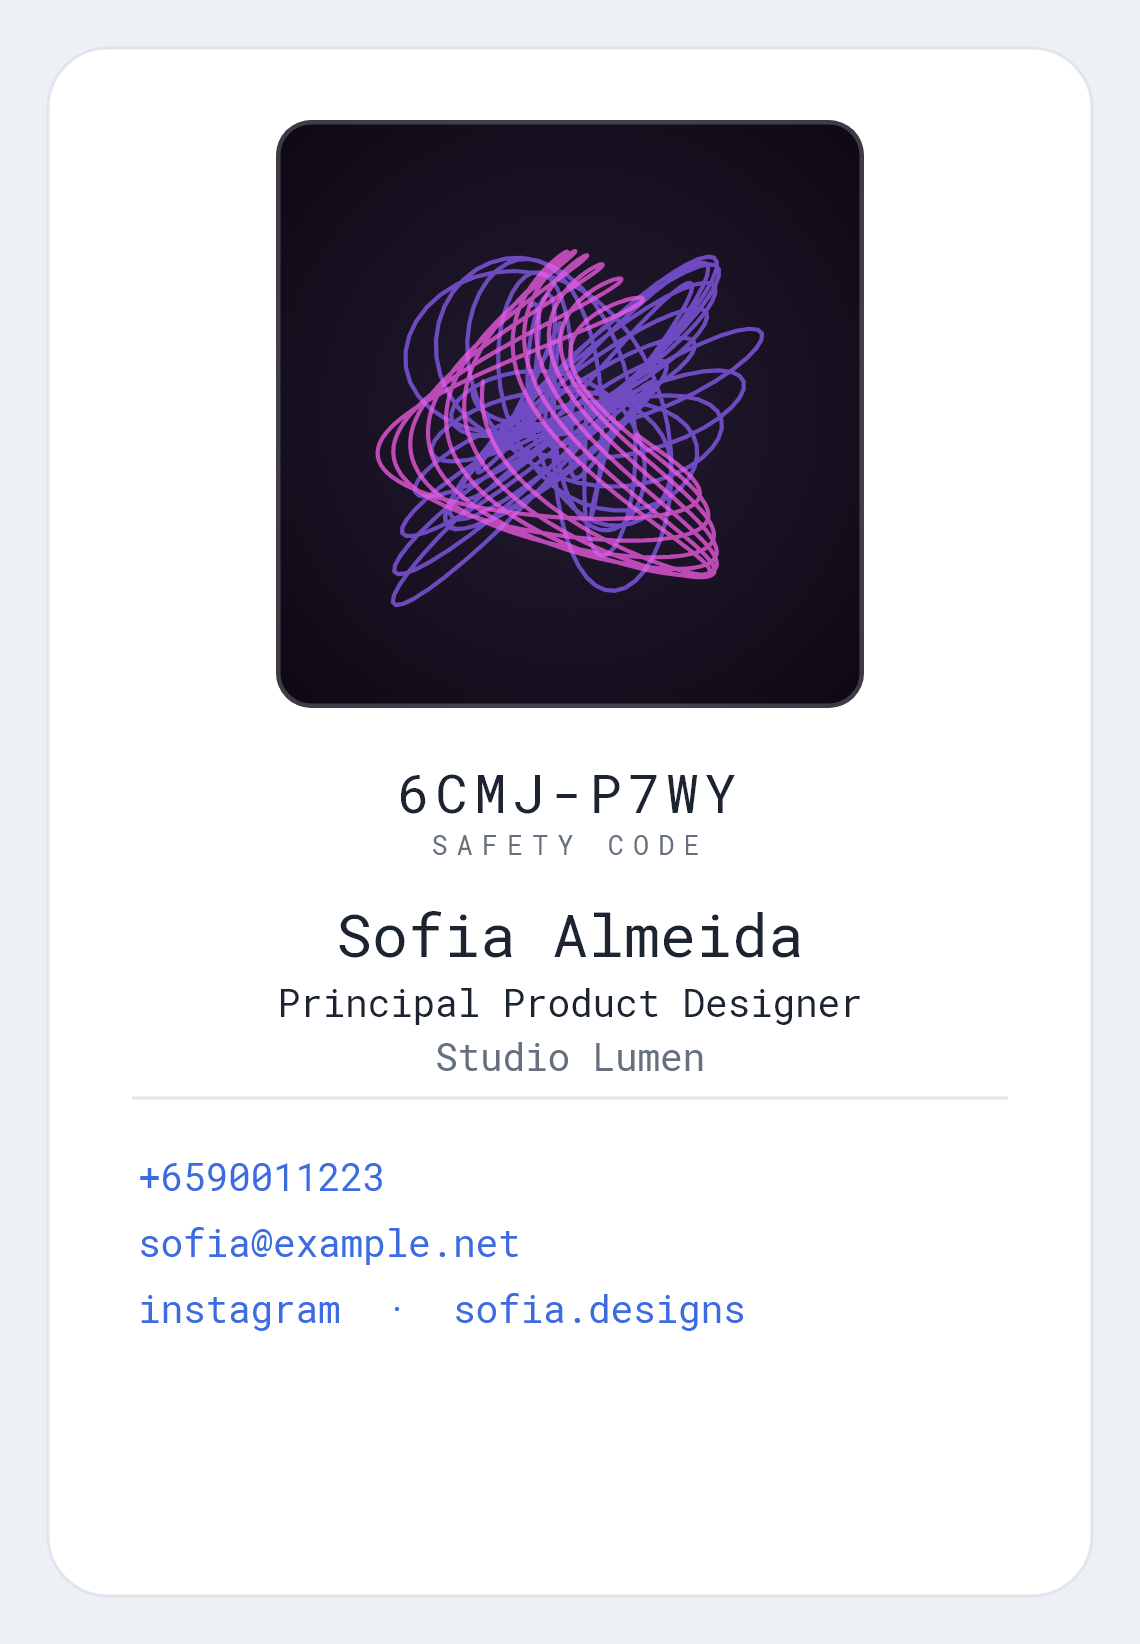
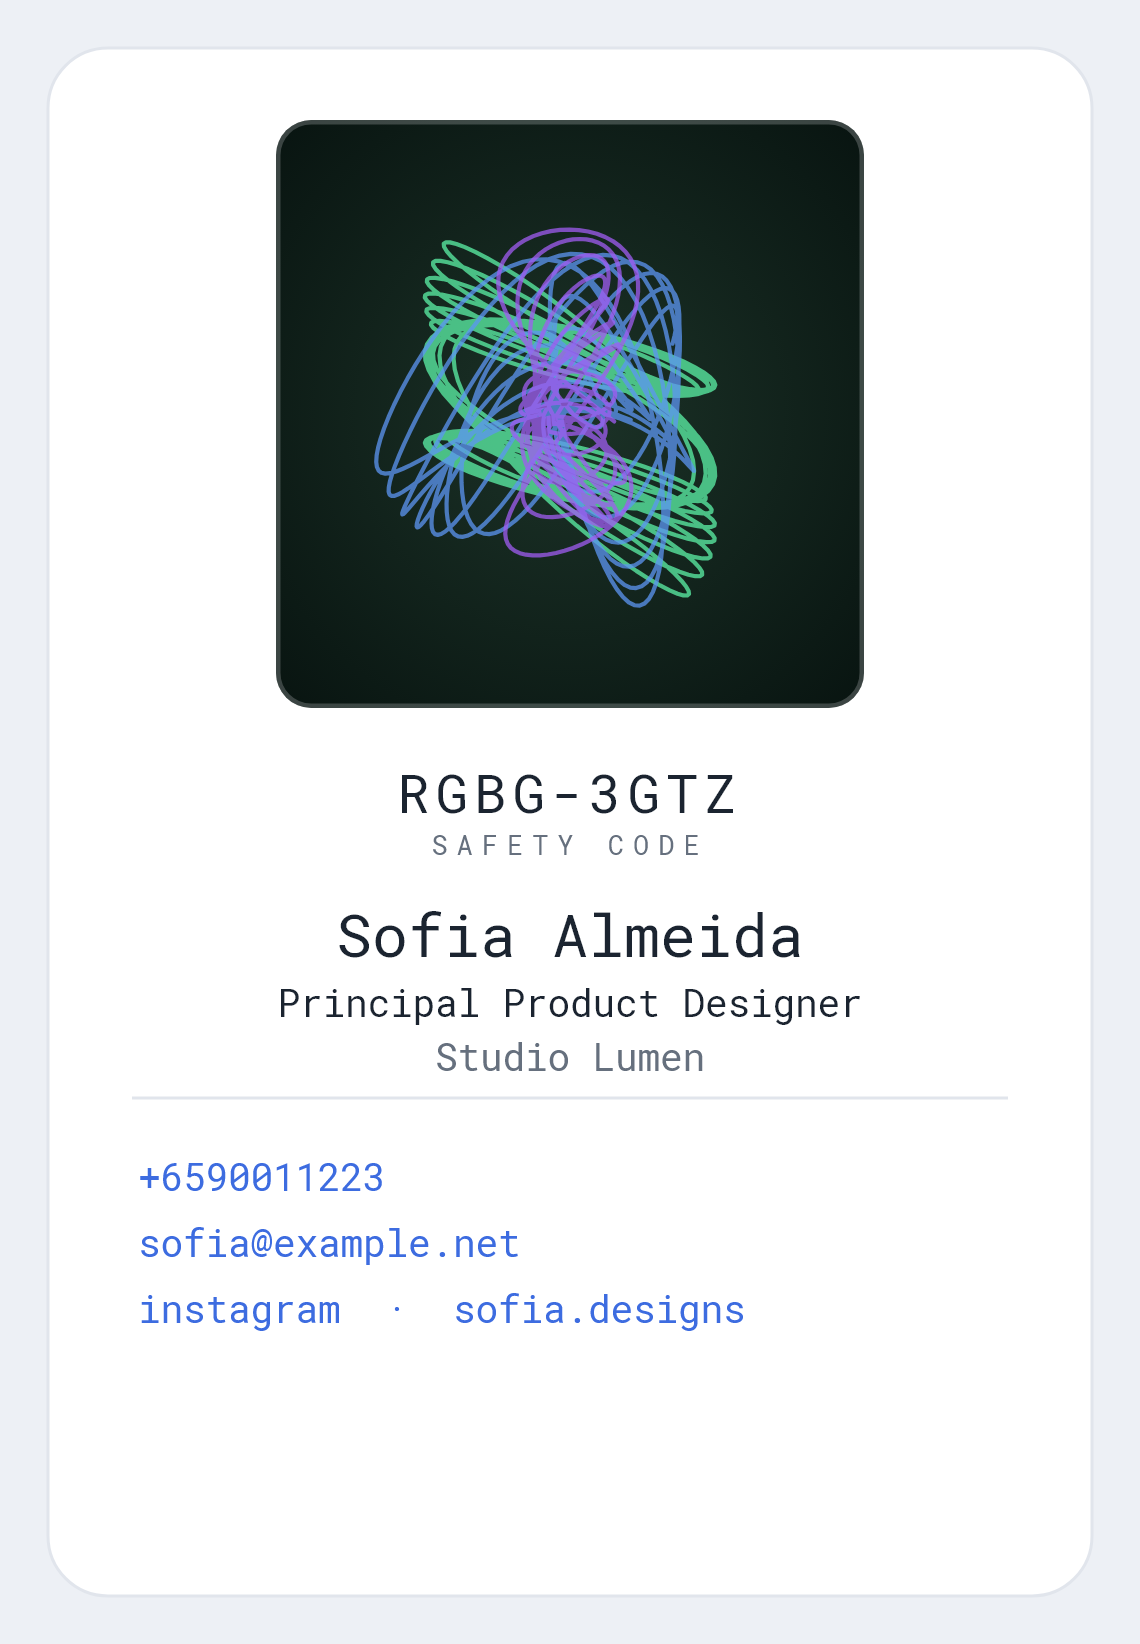
README: add feature screenshots (editor, viewer, share)
Add a Screens section showing three real app screens captured from the actual
widgets, and consolidate the demo cards into tool/demo_cards.dart so a given
person renders with the same fingerprint everywhere (tags feed the hash, so the
generators must agree). Regenerate all screenshots.

tool/gen_feature_shots.dart drives EditorScreen / CardViewer / ShareScreen at a
phone size with full Roboto + MaterialIcons + RobotoMono fonts loaded and writes
each via matchesGoldenFile (run: flutter test --update-goldens tool/gen_feature_shots.dart).

Changed region(s): [[0.307, 0.1241, 0.6754, 0.3723], [0.3377, 0.4653, 0.4912, 0.4964], [0.5219, 0.4653, 0.6447, 0.4964]]

diff --git a/tool/gen_feature_shots.dart b/tool/gen_feature_shots.dart
@@ -1,0 +1,95 @@
+// Captures real app screens to PNGs under screenshots/ for the README.
+// Run: flutter test --update-goldens tool/gen_feature_shots.dart
+//
+// Not a real test — it drives actual app widgets (editor, viewer, share) at a
+// phone size and writes each screen via matchesGoldenFile (which handles the
+// headless image capture reliably). Full Roboto + MaterialIcons + RobotoMono
+// fonts are loaded so nothing renders as tofu. The goldens live in
+// screenshots/, so re-running with --update-goldens refreshes the README shots.
+import 'dart:io';
+
+import 'package:flutter/material.dart';
+import 'package:flutter/services.dart';
+import 'package:flutter_test/flutter_test.dart';
+import 'package:namecard_vision/features/editor/editor_screen.dart';
+import 'package:namecard_vision/features/share/share_screen.dart';
+import 'package:namecard_vision/features/viewer/card_viewer.dart';
+import 'demo_cards.dart';
+
+const _flutterFonts = 'C:/src/flutter/bin/cache/artifacts/material_fonts';
+
+Future<void> _loadFonts() async {
+  Future<void> load(String family, String path) async {
+    final loader = FontLoader(family)
+      ..addFont(File(path).readAsBytes().then((b) => b.buffer.asByteData()));
+    await loader.load();
+  }
+
+  await load('Roboto', '$_flutterFonts/roboto-regular.ttf');
+  await load('MaterialIcons', '$_flutterFonts/materialicons-regular.otf');
+  final mono = await rootBundle.load('assets/fonts/RobotoMono-Regular.ttf');
+  for (final fam in ['RobotoMono', 'monospace']) {
+    await (FontLoader(fam)..addFont(Future.value(mono))).load();
+  }
+}
+
+Widget _app(Widget home) => MaterialApp(
+      debugShowCheckedModeBanner: false,
+      theme: ThemeData(
+        useMaterial3: true,
+        fontFamily: 'Roboto',
+        colorSchemeSeed: const Color(0xFF3D6CE0),
+        brightness: Brightness.light,
+      ),
+      home: home,
+    );
+
+/// Phone-sized surface at 3x so the PNG is crisp.
+void _phone(WidgetTester tester) {
+  const w = 390.0, h = 844.0, dpr = 3.0;
+  tester.view.devicePixelRatio = dpr;
+  tester.view.physicalSize = const Size(w * dpr, h * dpr);
+  addTearDown(tester.view.resetPhysicalSize);
+  addTearDown(tester.view.resetDevicePixelRatio);
+}
+
+void main() {
+  setUp(_loadFonts);
+
+  testWidgets('editor', (tester) async {
+    _phone(tester);
+    await tester.pumpWidget(_app(EditorScreen(initial: demoMaya, onSave: (_) async {})));
+    await tester.pump(const Duration(milliseconds: 400));
+    await expectLater(find.byType(EditorScreen),
+        matchesGoldenFile('../screenshots/feature-editor.png'));
+  });
+
+  testWidgets('viewer', (tester) async {
+    _phone(tester);
+    await tester.pumpWidget(_app(CardViewer(
+      card: demoArjun,
+      onCardChanged: (_) {},
+      onEdit: () {},
+      onDelete: () {},
+      onTogglePin: (_) {},
+      onToggleMine: (_) {},
+    )));
+    await tester.pump(const Duration(milliseconds: 400));
+    // Expand the skin switcher so the four skins are visible.
+    final tile = find.textContaining('Art skin:');
+    if (tile.evaluate().isNotEmpty) {
+      await tester.tap(tile);
+      await tester.pump(const Duration(milliseconds: 300));
+    }
+    await expectLater(find.byType(CardViewer),
+        matchesGoldenFile('../screenshots/feature-viewer.png'));
+  });
+
+  testWidgets('share', (tester) async {
+    _phone(tester);
+    await tester.pumpWidget(_app(const ShareScreen(card: demoWei)));
+    await tester.pump(const Duration(milliseconds: 400));
+    await expectLater(find.byType(ShareScreen),
+        matchesGoldenFile('../screenshots/feature-share.png'));
+  });
+}

diff --git a/tool/gen_shots.dart b/tool/gen_shots.dart
@@ -6,7 +6,6 @@
 // write it to disk. Text uses the bundled RobotoMono so glyphs render in the
 // headless environment (the default test font is blank).
 import 'dart:io';
-import 'dart:typed_data';
 import 'dart:ui' as ui;
 
 import 'package:flutter/material.dart';
@@ -16,62 +15,15 @@ import 'package:namecard_vision/fingerprint/registry.dart';
 import 'package:namecard_vision/model/card.dart';
 import 'package:namecard_vision/model/fingerprint_hash.dart';
 
+import 'demo_cards.dart';
+
 const String _mono = 'RobotoMono';
 
 final List<(String, NameCard)> _cards = [
-  (
-    'maya-biostat',
-    const NameCard(
-      name: 'Dr. Maya Chen',
-      title: 'Consultant Cardiologist',
-      org: 'Harbourfront Heart Centre',
-      phones: [PhoneNumber(label: 'mobile', e164: '+6591234567')],
-      emails: ['maya.chen@example.com'],
-      socials: [
-        SocialLink(platform: 'linkedin', handle: 'maya-chen'),
-        SocialLink(platform: 'github', handle: 'mayachen'),
-      ],
-    ),
-  ),
-  (
-    'arjun-geometric',
-    const NameCard(
-      name: 'Arjun Rao',
-      title: 'Staff Data Scientist',
-      org: 'Novena Analytics',
-      phones: [PhoneNumber(label: 'mobile', e164: '+6598887766')],
-      emails: ['arjun@example.org'],
-      socials: [
-        SocialLink(platform: 'x', handle: 'arjunrao'),
-        SocialLink(platform: 'website', url: 'arjun.example.dev'),
-      ],
-      styleId: 'geometric.v1',
-    ),
-  ),
-  (
-    'sofia-harmonograph',
-    const NameCard(
-      name: 'Sofia Almeida',
-      title: 'Principal Product Designer',
-      org: 'Studio Lumen',
-      phones: [PhoneNumber(label: 'mobile', e164: '+6590011223')],
-      emails: ['sofia@example.net'],
-      socials: [SocialLink(platform: 'instagram', handle: 'sofia.designs')],
-      styleId: 'harmonograph.v1',
-    ),
-  ),
-  (
-    'wei-randomart',
-    const NameCard(
-      name: 'Wei Lin',
-      title: 'Security Engineer',
-      org: 'Redwall Labs',
-      phones: [PhoneNumber(label: 'mobile', e164: '+6593334455')],
-      emails: ['wei@example.io'],
-      socials: [SocialLink(platform: 'github', handle: 'weilin')],
-      styleId: 'randomart.v1',
-    ),
-  ),
+  ('maya-biostat', demoMaya),
+  ('arjun-geometric', demoArjun),
+  ('sofia-harmonograph', demoSofia),
+  ('wei-randomart', demoWei),
 ];
 
 String _socialLine(SocialLink s) {

diff --git a/tool/demo_cards.dart b/tool/demo_cards.dart
@@ -1,0 +1,53 @@
+// Shared fictional demo cards, imported by both screenshot generators so a
+// given person renders with the SAME fingerprint and safety code everywhere in
+// the README (the hash depends on every field, tags included).
+import 'package:namecard_vision/model/card.dart';
+
+const demoMaya = NameCard(
+  name: 'Dr. Maya Chen',
+  title: 'Consultant Cardiologist',
+  org: 'Harbourfront Heart Centre',
+  phones: [PhoneNumber(label: 'mobile', e164: '+6591234567')],
+  emails: ['maya.chen@example.com'],
+  socials: [
+    SocialLink(platform: 'linkedin', handle: 'maya-chen'),
+    SocialLink(platform: 'github', handle: 'mayachen'),
+  ],
+  tags: ['cardiology', 'research'],
+);
+
+const demoArjun = NameCard(
+  name: 'Arjun Rao',
+  title: 'Staff Data Scientist',
+  org: 'Novena Analytics',
+  phones: [PhoneNumber(label: 'mobile', e164: '+6598887766')],
+  emails: ['arjun@example.org'],
+  socials: [
+    SocialLink(platform: 'x', handle: 'arjunrao'),
+    SocialLink(platform: 'website', url: 'arjun.example.dev'),
+  ],
+  tags: ['ml', 'python'],
+  styleId: 'geometric.v1',
+);
+
+const demoSofia = NameCard(
+  name: 'Sofia Almeida',
+  title: 'Principal Product Designer',
+  org: 'Studio Lumen',
+  phones: [PhoneNumber(label: 'mobile', e164: '+6590011223')],
+  emails: ['sofia@example.net'],
+  socials: [SocialLink(platform: 'instagram', handle: 'sofia.designs')],
+  tags: ['design', 'brand'],
+  styleId: 'harmonograph.v1',
+);
+
+const demoWei = NameCard(
+  name: 'Wei Lin',
+  title: 'Security Engineer',
+  org: 'Redwall Labs',
+  phones: [PhoneNumber(label: 'mobile', e164: '+6593334455')],
+  emails: ['wei@example.io'],
+  socials: [SocialLink(platform: 'github', handle: 'weilin')],
+  tags: ['appsec'],
+  styleId: 'randomart.v1',
+);

diff --git a/README.md b/README.md
@@ -64,6 +64,16 @@ verifies *content*, not appearance.
 - **Offline‑first**: everything is stored locally (SQLite); no network calls
   except opening links you tap.
 
+## Screens
+
+<table>
+  <tr>
+    <td align="center" width="33%"><img src="screenshots/feature-editor.png" width="240"><br><sub><b>Editor</b><br>Live fingerprint preview, art-skin picker, and fields for contacts &amp; social links.</sub></td>
+    <td align="center" width="33%"><img src="screenshots/feature-viewer.png" width="240"><br><sub><b>Card viewer</b><br>Art + safety code + tappable contacts; switch the skin without leaving the card.</sub></td>
+    <td align="center" width="33%"><img src="screenshots/feature-share.png" width="240"><br><sub><b>Share</b><br>Verifiable App/Web QR, plus Bluetooth, link, copy, and vCard.</sub></td>
+  </tr>
+</table>
+
 ## Try it
 
 - **Live web viewer (a demo card):**
